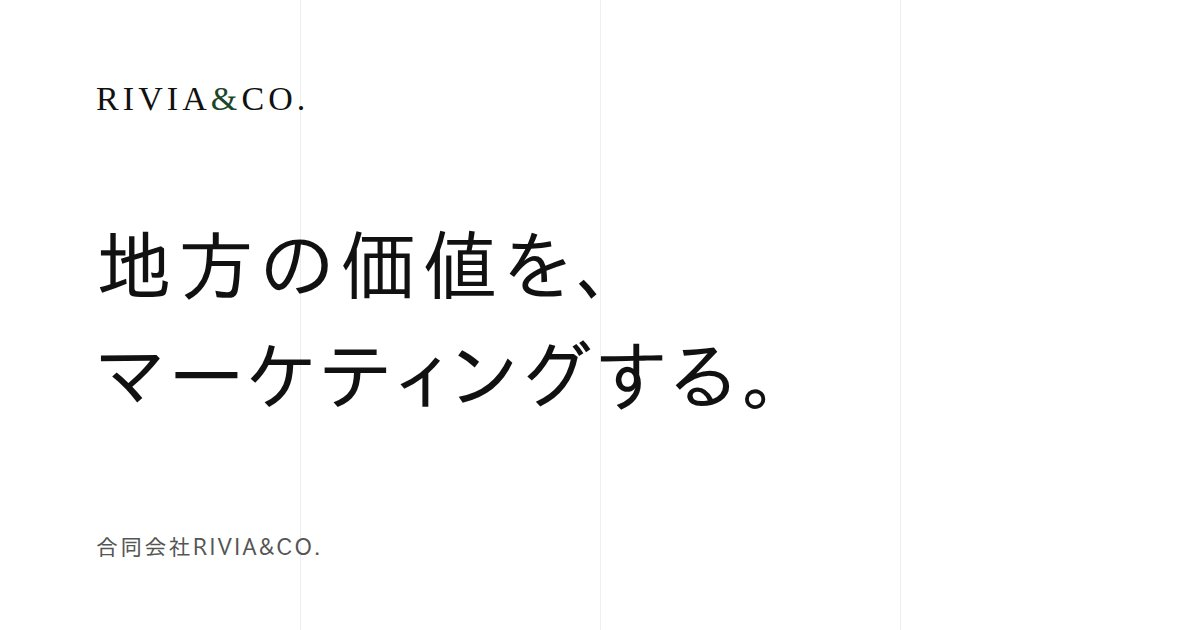
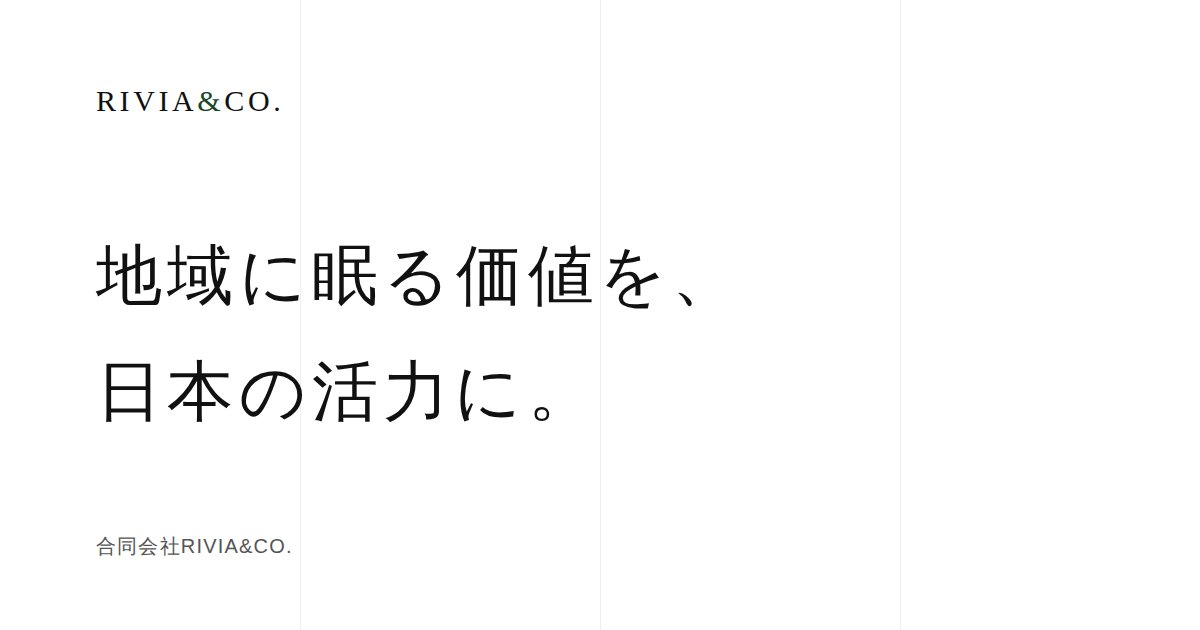
ミッション・ビジョン・バリューを策定：TOPのヒーローとMVVセクション、フッター・タイトル・OGP画像を刷新し、Aboutを写真ヒーロー＋MVVの上質なレイアウトに
Claude-Session: https://claude.ai/code/session_01QhiMqAcoNGYrh5Cz1K4JLP

diff --git a/index.html b/index.html
@@ -12,8 +12,8 @@
   </script>
   <meta charset="UTF-8">
   <meta name="viewport" content="width=device-width, initial-scale=1.0">
-  <title>合同会社RIVIA&amp;CO. | 地方の価値を、マーケティングする。</title>
-  <meta name="description" content="地方の価値を、マーケティングする。宿泊施設の運営から集客・採用、開業支援まで、現場目線でまるごと支援する合同会社RIVIA&amp;CO.のコーポレートサイトです。">
+  <title>合同会社RIVIA&amp;CO. | 地域に眠る価値を、日本の活力に。</title>
+  <meta name="description" content="地域に眠る価値を、日本の活力に。空き家の再生や民泊の開業・運営から、集客・採用、まちづくりまでを担う合同会社RIVIA&amp;CO.のコーポレートサイトです。">
   <link rel="canonical" href="https://example.com/">
   <link rel="icon" href="images/favicon.svg" type="image/svg+xml">
   <link rel="icon" href="images/favicon-48.png" type="image/png" sizes="48x48">
@@ -23,8 +23,8 @@
     OGP（SNSでシェアされたときの表示）
     公開ドメインが決まったら「https://example.com」を実際のURLに変更してください。
   -->
-  <meta property="og:title" content="合同会社RIVIA&amp;CO. | 地方の価値を、マーケティングする。">
-  <meta property="og:description" content="地方の価値を、マーケティングする。宿泊施設の運営から集客・採用、開業支援まで、現場目線でまるごと支援する合同会社RIVIA&amp;CO.のコーポレートサイトです。">
+  <meta property="og:title" content="合同会社RIVIA&amp;CO. | 地域に眠る価値を、日本の活力に。">
+  <meta property="og:description" content="地域に眠る価値を、日本の活力に。空き家の再生や民泊の開業・運営から、集客・採用、まちづくりまでを担う合同会社RIVIA&amp;CO.のコーポレートサイトです。">
   <meta property="og:type" content="website">
   <meta property="og:url" content="https://example.com/">
   <meta property="og:image" content="https://example.com/images/ogp.jpg">
@@ -77,8 +77,8 @@
     <section class="hero hero--photo">
       <img class="hero__bg" src="images/photos/autumn-garden.jpg" alt="" width="1616" height="1079" fetchpriority="high" decoding="async">
       <div class="container">
-        <h1 class="hero__title reveal">地方の<wbr>価値を、<br>マーケティングする。</h1>
-        <p class="hero__sub reveal" data-delay="2">「暮らすように旅をする」<wbr>体験を、<br>宿の運営から<wbr>まちづくりまで、<wbr>現場目線で<wbr>支援します。</p>
+        <h1 class="hero__title reveal">地域に眠る価値を、<br>日本の<wbr>活力に。</h1>
+        <p class="hero__sub reveal" data-delay="2">「暮らすように<wbr>旅する」<wbr>滞在を<wbr>軸に、<br>宿の再生から<wbr>集客・採用、<wbr>まちづくりまで。</p>
         <div class="hero__actions reveal" data-delay="3">
           <a href="contact.html" class="btn">無料で<wbr>相談する <span class="arrow" aria-hidden="true"></span></a>
           <a href="#service" class="btn btn--ghost btn--on-photo">事業紹介を見る</a>
@@ -91,39 +91,44 @@
       <div class="container">
         <div class="vision__head">
           <div class="reveal">
-            <span class="eyebrow">Our Vision</span>
-            <h2 class="vision__copy">日本の<wbr>魅力を、<br>暮らすように<wbr>味わう。</h2>
+            <span class="eyebrow">Mission</span>
+            <h2 class="vision__copy">地域に眠る価値を、<br>日本の<wbr>活力に。</h2>
           </div>
-          <p class="vision__lead reveal" data-delay="1"><n-w class="j">私たちは、単なる宿泊施設を提供するのではありません。</n-w><br><n-w class="j">地域に眠る資源（空き家や遊休不動産）を、デザインとテクノロジーの力で「その土地の日常を体験できる居場所」へとアップデートします。</n-w><br><n-w class="j">旅行者には新しい滞在価値を、地域には持続可能な経済循環を。</n-w></p>
+          <p class="vision__lead reveal" data-delay="1"><n-w class="j">空き家や遊休不動産、食や自然、文化や人の営み。地域には、まだ活かされていない価値が数多く眠っています。</n-w><br><n-w class="j">私たちはその価値を掘り起こし、「まちづくり」と「観光づくり」を通じて、人が訪れ、働き、暮らし続けられる地域を増やしていきます。</n-w><br><n-w class="j">地域が元気になることが、日本が元気になることだと信じて。</n-w></p>
         </div>
-        <p class="vision__label reveal"><n-w>RIVIAが考える「地方の価値をマーケティングする」こと</n-w></p>
-        <ol class="vision__steps">
+        <div class="mvv__block">
+          <p class="mvv__label reveal"><span class="eyebrow">Vision</span><span class="mvv__copy"><n-w>「暮らすように旅する」滞在を、全国のまちへ。</n-w></span><span class="mvv__lead"><n-w>ミッションの実現に向けて、私たちが中期的に取り組むこと。</n-w></span></p>
+          <ol class="vision__steps">
           <li class="vision__step reveal" data-delay="0">
             <span class="vision__num">01</span>
-            <span class="vision__en">Discover</span>
-            <h3 class="vision__title">見つける</h3>
-            <p class="vision__text"><n-w>空き家や遊休不動産、食・自然・文化・人の営みなど、地域に眠る資源を掘り起こします。</n-w></p>
+            <span class="vision__en">Revive</span>
+            <h3 class="vision__title">宿に再生する</h3>
+            <p class="vision__text"><n-w>空き家や遊休不動産を、その土地の日常を味わえる宿へ。再生から開業・運営まで、自ら担います。</n-w></p>
           </li>
           <li class="vision__step reveal" data-delay="1">
             <span class="vision__num">02</span>
-            <span class="vision__en">Refine</span>
-            <h3 class="vision__title">磨く</h3>
-            <p class="vision__text"><n-w>デザインとテクノロジーの力で、「その土地の日常を体験できる宿」や観光コンテンツへと再生・創出します。</n-w></p>
+            <span class="vision__en">Attract</span>
+            <h3 class="vision__title">人を呼び込む</h3>
+            <p class="vision__text"><n-w>WEBマーケティングの力で、地域の魅力を国内外の旅行者に届け、訪れる理由をつくります。</n-w></p>
           </li>
           <li class="vision__step reveal" data-delay="2">
             <span class="vision__num">03</span>
-            <span class="vision__en">Deliver</span>
-            <h3 class="vision__title">届ける</h3>
-            <p class="vision__text"><n-w>WEBマーケティングの力で、その価値を求める国内外の旅行者に確実に届けます。</n-w></p>
+            <span class="vision__en">Employ</span>
+            <h3 class="vision__title">働く人を増やす</h3>
+            <p class="vision__text"><n-w>地域で働きたい人と、人手を必要とする事業者をつなぎ、地域の担い手を増やします。</n-w></p>
           </li>
           <li class="vision__step reveal" data-delay="3">
             <span class="vision__num">04</span>
             <span class="vision__en">Circulate</span>
-            <h3 class="vision__title">循環させる</h3>
-            <p class="vision__text"><n-w>人の流れと雇用を地域に生み、持続可能な経済循環とまちづくりへとつなげます。</n-w></p>
+            <h3 class="vision__title">まちに<wbr>循環させる</h3>
+            <p class="vision__text"><n-w>生まれた収益と雇用を地域に還し、次の再生へ。まちづくりへと広げていきます。</n-w></p>
           </li>
-        </ol>
-        <ul class="vision__outcomes reveal"><li><span><n-w>旅行者には</n-w></span><n-w>その土地の日常に溶け込む、新しい滞在価値を。</n-w></li><li><span><n-w>地域には</n-w></span><n-w>眠っていた資源が稼ぎ、雇用と交流が生まれる経済循環を。</n-w></li><li><span><n-w>オーナー様には</n-w></span><n-w>負担だった資産や施設が、収益を生む事業に変わる未来を。</n-w></li></ul>
+          </ol>
+        </div>
+        <div class="mvv__block">
+          <p class="mvv__label reveal"><span class="eyebrow">Values</span><span class="mvv__copy">私たちが<wbr>大切にすること</span></p>
+          <ul class="values"><li class="reveal"><span class="values__num">01</span><h3>当事者であれ</h3><p><n-w>自ら宿を運営し、現場で確かめたことだけを提案する。</n-w></p></li><li class="reveal"><span class="values__num">02</span><h3>その土地を<wbr>主役に</h3><p><n-w>地域の暮らしと文化への敬意を、すべての判断の起点にする。</n-w></p></li><li class="reveal"><span class="values__num">03</span><h3>想いを、<wbr>成果で示す</h3><p><n-w>想いだけで終わらせず、数字と結果で応える。</n-w></p></li><li class="reveal"><span class="values__num">04</span><h3>続く仕組みを<wbr>つくる</h3><p><n-w>一過性で終わらせず、地域に残り、循環する形を選ぶ。</n-w></p></li></ul>
+        </div>
       </div>
     </section>
 
@@ -440,7 +445,7 @@
       <div class="footer__top">
         <div class="footer__brand">
           <a href="index.html" class="logo"><img src="images/logo/logo.svg" alt="RIVIA&amp;CO." width="325" height="64" loading="lazy"></a>
-          <p class="footer__copy">地方の<wbr>価値を、<wbr>マーケティングする。</p>
+          <p class="footer__copy">地域に眠る価値を、<wbr>日本の<wbr>活力に。</p>
         </div>
         <a href="contact.html" class="footer__cta">無料で<wbr>相談する <span class="arrow" aria-hidden="true"></span></a>
       </div>

diff --git a/about.html b/about.html
@@ -73,26 +73,66 @@
   </header>
 
   <main>
-    <section class="page-hero">
+    <section class="page-hero page-hero--photo page-hero--about">
+      <img class="page-hero__bg" src="images/photos/irori-room.jpg" alt="" width="1623" height="1079" style="object-position:50% 60%" fetchpriority="high" decoding="async">
       <div class="container">
         <p class="page-hero__en reveal">About Us</p>
         <h1 class="page-hero__ja reveal" data-delay="1">私たちに<wbr>ついて</h1>
       </div>
     </section>
 
-    <section class="section">
+    <section class="section about-sec">
+      <div class="container container--narrow">
+        <p class="about-big reveal" aria-hidden="true">Mission</p>
+        <h2 class="about-copy reveal">地域に眠る価値を、<br>日本の<wbr>活力に。</h2>
+        <div class="about-prose">
+          <div class="about-para reveal"><p class="about-line">空き家や遊休不動産、</p><p class="about-line">食や自然、<wbr>文化や人の営み。</p><p class="about-line">地域には、<wbr>まだ活かされていない</p><p class="about-line">価値が<wbr>数多く<wbr>眠っています。</p></div>
+          <div class="about-para reveal"><p class="about-line">その土地に<wbr>とって、</p><p class="about-line">そこに<wbr>暮らす<wbr>人々に<wbr>とって、</p><p class="about-line">本当に<wbr>必要な<wbr>ものは<wbr>何か。</p><p class="about-line">私たちは自ら現場に<wbr>立ち、</p><p class="about-line">地域と<wbr>徹底的に<wbr>向き合います。</p></div>
+          <div class="about-para reveal"><p class="about-line">眠っていた<wbr>価値を掘り起こし、</p><p class="about-line">まちづくりと<wbr>観光づくりへ。</p><p class="about-line">人が訪れ、<wbr>働き、</p><p class="about-line">暮らし続けられる<wbr>地域を、</p><p class="about-line">ひとつずつ増やしていく。</p></div>
+          <div class="about-para reveal"><p class="about-line">地域が<wbr>元気に<wbr>なることが、</p><p class="about-line">日本が<wbr>元気になること。</p><p class="about-line">私たちは、<wbr>そう信じています。</p></div>
+        </div>
+      </div>
+    </section>
+
+    <section class="section section--soft about-sec">
+      <div class="container">
+        <p class="about-big reveal" aria-hidden="true">Vision</p>
+        <h2 class="about-copy reveal">「暮らすように<wbr>旅する」<wbr>滞在を、<br>全国の<wbr>まちへ。</h2>
+        <p class="about-note reveal"><n-w>ミッションの実現に向けて、私たちが中期的に取り組むこと。</n-w></p>
+        <ol class="about-pillars">
+          <li class="reveal" data-delay="0"><span class="about-pillar__num">01</span><span class="about-pillar__en">Revive</span><h3>宿に再生する</h3><p><n-w>空き家や遊休不動産を、その土地の日常を味わえる宿へ。再生から開業・運営まで、自ら担います。</n-w></p></li>
+          <li class="reveal" data-delay="1"><span class="about-pillar__num">02</span><span class="about-pillar__en">Attract</span><h3>人を呼び込む</h3><p><n-w>WEBマーケティングの力で、地域の魅力を国内外の旅行者に届け、訪れる理由をつくります。</n-w></p></li>
+          <li class="reveal" data-delay="2"><span class="about-pillar__num">03</span><span class="about-pillar__en">Employ</span><h3>働く人を増やす</h3><p><n-w>地域で働きたい人と、人手を必要とする事業者をつなぎ、地域の担い手を増やします。</n-w></p></li>
+          <li class="reveal" data-delay="3"><span class="about-pillar__num">04</span><span class="about-pillar__en">Circulate</span><h3>まちに<wbr>循環させる</h3><p><n-w>生まれた収益と雇用を地域に還し、次の再生へ。まちづくりへと広げていきます。</n-w></p></li>
+        </ol>
+      </div>
+    </section>
+
+    <section class="section about-sec">
+      <div class="container">
+        <p class="about-big reveal" aria-hidden="true">Values</p>
+        <h2 class="about-copy reveal">私たちが<wbr>大切にすること</h2>
+        <ul class="about-values">
+          <li class="reveal" data-delay="0"><span class="about-value__num">01</span><div><h3>当事者であれ</h3><p><n-w>自ら宿を運営し、現場で確かめたことだけを提案する。</n-w></p></div></li>
+          <li class="reveal" data-delay="1"><span class="about-value__num">02</span><div><h3>その土地を<wbr>主役に</h3><p><n-w>地域の暮らしと文化への敬意を、すべての判断の起点にする。</n-w></p></div></li>
+          <li class="reveal" data-delay="0"><span class="about-value__num">03</span><div><h3>想いを、<wbr>成果で示す</h3><p><n-w>想いだけで終わらせず、数字と結果で応える。</n-w></p></div></li>
+          <li class="reveal" data-delay="1"><span class="about-value__num">04</span><div><h3>続く仕組みを<wbr>つくる</h3><p><n-w>一過性で終わらせず、地域に残り、循環する形を選ぶ。</n-w></p></div></li>
+        </ul>
+      </div>
+    </section>
+
+    <section class="section section--soft">
       <div class="container container--narrow">
         <div class="section-head reveal">
           <span class="eyebrow">Message</span>
-          <h2 class="section-title">メッセージ</h2>
+          <h2 class="section-title">創業の想い</h2>
         </div>
         <div class="message reveal">
           <p class="message__lead"><span class="message__quote"><n-w class="j">「日本の観光産業が持つポテンシャルは、</n-w><br class="pc-only"><n-w class="j">まだまだこんなものではない」</n-w></span><span class="message__origin"><n-w class="j">——それが、私たちがRIVIA&amp;CO.を立ち上げた原点です。</n-w></span></p>
           <p><n-w class="j">近年、日本全国で深刻化する「空き家問題」。</n-w><br class="pc-only"><n-w class="j">私たちはこの社会課題を、マイナスなものとしてではなく、新たな価値を創出するための豊かな資源だと捉えています。</n-w></p>
-          <p><n-w class="j">私たちが目指すのは、単なる宿泊施設の提供ではありません。</n-w><br class="pc-only"><n-w class="j">ワーケーションを主軸とする国内外のトラベラーが、その土地ならではの豊かな食や手つかずの自然、息づく風土を五感で味わいながら、のびのびと過ごせる空間を創り出すことです。</n-w></p>
           <p><n-w class="j">旅の本来の目的とは、有名な観光名所を慌ただしく巡ることだけではなく、その土地の日常に溶け込み、新しい自分の居場所を見つけることにあると私たちは信じています。</n-w></p>
           <p class="message__concept">「暮らすように<wbr>旅する」</p>
-          <p><n-w class="j">このコンセプトを体現する宿を全国津々浦々に展開し、地域の息吹を感じられる新しい滞在体験をデザインしていく。</n-w><br class="pc-only"><n-w class="j">そして、宿泊施設の運営・支援・マーケティングという3つの軸を通じて、日本の観光産業を次なるステージへと引き上げてまいります。</n-w></p>
+          <p><n-w class="j">このコンセプトを体現する宿を全国に広げ、地域の息吹を感じられる新しい滞在体験をデザインしていく。</n-w><br class="pc-only"><n-w class="j">宿の再生から集客・採用、まちづくりまでを通じて、地域と日本の未来をつくってまいります。</n-w></p>
         </div>
       </div>
     </section>
@@ -198,7 +238,7 @@
       <div class="footer__top">
         <div class="footer__brand">
           <a href="index.html" class="logo"><img src="images/logo/logo.svg" alt="RIVIA&amp;CO." width="325" height="64" loading="lazy"></a>
-          <p class="footer__copy">地方の<wbr>価値を、<wbr>マーケティングする。</p>
+          <p class="footer__copy">地域に眠る価値を、<wbr>日本の<wbr>活力に。</p>
         </div>
         <a href="contact.html" class="footer__cta">無料で<wbr>相談する <span class="arrow" aria-hidden="true"></span></a>
       </div>

diff --git a/css/style.css b/css/style.css
@@ -1500,3 +1500,62 @@ strong.hl { font-weight: 600; color: var(--c-text); background: linear-gradient(
 .subnav__aud:first-child { border-top: 0; padding-top: 8px; }
 .subnav__intents li:has(+ .subnav__aud) a { border-bottom: 0; }
 @media (max-width: 899px) { .subnav__aud { padding: 14px var(--gutter) 4px; } }
+/* Mission / Vision / Values */
+.mvv__block { margin-top: 96px; }
+.mvv__label { display: flex; flex-wrap: wrap; align-items: baseline; gap: 8px 24px; padding-bottom: 20px; border-bottom: 1px solid var(--c-text); }
+.mvv__label .eyebrow { margin: 0; }
+.mvv__copy { font-family: var(--font-serif); font-size: clamp(20px, 2.2vw, 26px); letter-spacing: 0.08em; }
+.mvv__lead { flex-basis: 100%; font-size: 13px; color: var(--c-muted); letter-spacing: 0.06em; }
+.values { display: grid; grid-template-columns: repeat(4, minmax(0, 1fr)); gap: 16px; margin-top: 28px; }
+.values li { padding: 28px 24px; background: var(--c-bg-soft); }
+.values__num { font-family: var(--font-en); font-size: 13px; color: var(--c-accent); letter-spacing: 0.2em; }
+.values h3 { margin-top: 10px; font-family: var(--font-serif); font-weight: 400; font-size: 19px; letter-spacing: 0.06em; }
+.values p { margin-top: 10px; font-size: 13.5px; line-height: 1.9; color: var(--c-sub); }
+@media (max-width: 1099px) { .values { grid-template-columns: repeat(2, minmax(0, 1fr)); } }
+@media (max-width: 899px) {
+  .mvv__block { margin-top: 64px; }
+  .values { grid-template-columns: 1fr; gap: 12px; margin-top: 20px; }
+  .values li { padding: 20px; }
+}
+/* About：ミッション・ビジョン・バリューを、大きな余白と細い線で上質に見せる */
+.page-hero--about { min-height: min(72vh, 680px); }
+.page-hero--about::before { background: linear-gradient(0deg, rgba(12, 14, 12, 0.62) 0%, rgba(12, 14, 12, 0.38) 60%, rgba(12, 14, 12, 0.3) 100%); }
+.page-hero--about .page-hero__en { color: #fff; font-size: clamp(56px, 9vw, 120px); }
+.page-hero--about .page-hero__ja { color: rgba(255, 255, 255, 0.85); letter-spacing: 0.3em; }
+.about-sec { text-align: center; padding-top: 140px; padding-bottom: 140px; }
+.about-big { font-family: var(--font-en); font-weight: 300; font-size: clamp(64px, 12vw, 168px); line-height: 1; letter-spacing: 0.1em; text-transform: uppercase; color: rgba(26, 71, 42, 0.1); }
+.about-copy { margin-top: -0.2em; font-family: var(--font-serif); font-weight: 300; font-size: clamp(24px, 3.2vw, 38px); line-height: 1.8; letter-spacing: 0.12em; }
+.about-copy::after { content: ""; display: block; width: 40px; height: 1px; margin: 40px auto 0; background: var(--c-accent); }
+.about-prose { margin-top: 48px; display: grid; gap: 36px; }
+.about-line { font-family: var(--font-serif); font-weight: 300; font-size: 16px; line-height: 2.3; letter-spacing: 0.1em; color: var(--c-sub); }
+.about-note { margin-top: 32px; font-size: 13.5px; color: var(--c-muted); letter-spacing: 0.1em; }
+.about-pillars { display: grid; grid-template-columns: repeat(4, minmax(0, 1fr)); margin-top: 64px; border-top: 1px solid var(--c-line-strong); text-align: left; }
+.about-pillars li { padding: 40px 28px 8px; }
+.about-pillars li + li { border-left: 1px solid var(--c-line); }
+.about-pillar__num { display: block; font-family: var(--font-en); font-weight: 300; font-size: 44px; line-height: 1; color: var(--c-accent); }
+.about-pillar__en { display: block; margin-top: 12px; font-family: var(--font-en); font-size: 12px; letter-spacing: 0.24em; text-transform: uppercase; color: var(--c-muted); }
+.about-pillars h3 { margin-top: 20px; font-family: var(--font-serif); font-weight: 400; font-size: 20px; letter-spacing: 0.1em; }
+.about-pillars p { margin-top: 14px; font-size: 13.5px; line-height: 2; color: var(--c-sub); }
+.about-values { display: grid; grid-template-columns: repeat(2, minmax(0, 1fr)); gap: 0 64px; margin-top: 64px; text-align: left; }
+.about-values li { display: grid; grid-template-columns: 72px minmax(0, 1fr); gap: 20px; align-items: baseline; padding: 36px 0; border-top: 1px solid var(--c-line-strong); }
+.about-value__num { font-family: var(--font-en); font-weight: 300; font-size: 52px; line-height: 1; color: var(--c-accent); }
+.about-values h3 { font-family: var(--font-serif); font-weight: 400; font-size: 22px; letter-spacing: 0.1em; }
+.about-values p { margin-top: 10px; font-size: 14px; line-height: 2; color: var(--c-sub); }
+@media (max-width: 1099px) {
+  .about-pillars { grid-template-columns: repeat(2, minmax(0, 1fr)); }
+  .about-pillars li:nth-child(3) { border-left: 0; }
+  .about-pillars li:nth-child(n+3) { border-top: 1px solid var(--c-line); }
+}
+@media (max-width: 899px) {
+  .about-sec { padding-top: 88px; padding-bottom: 88px; }
+  .about-copy::after { margin-top: 28px; }
+  .about-prose { margin-top: 32px; gap: 28px; }
+  .about-line { font-size: 14.5px; line-height: 2.1; letter-spacing: 0.06em; }
+  .about-pillars { grid-template-columns: 1fr; margin-top: 40px; }
+  .about-pillars li, .about-pillars li + li { padding: 28px 4px 24px; border-left: 0; border-top: 1px solid var(--c-line); }
+  .about-pillars li:first-child { border-top: 0; }
+  .about-values { grid-template-columns: 1fr; margin-top: 40px; }
+  .about-values li { grid-template-columns: 52px minmax(0, 1fr); gap: 12px; padding: 26px 0; }
+  .about-value__num { font-size: 38px; }
+  .about-values h3 { font-size: 18px; }
+}

diff --git a/media/airdna-revenue-simulation.html b/media/airdna-revenue-simulation.html
@@ -314,7 +314,7 @@
       <div class="footer__top">
         <div class="footer__brand">
           <a href="../index.html" class="logo"><img src="../images/logo/logo.svg" alt="RIVIA&amp;CO." width="325" height="64" loading="lazy"></a>
-          <p class="footer__copy">地方の<wbr>価値を、<wbr>マーケティングする。</p>
+          <p class="footer__copy">地域に眠る価値を、<wbr>日本の<wbr>活力に。</p>
         </div>
         <a href="../contact.html" class="footer__cta">無料で<wbr>相談する <span class="arrow" aria-hidden="true"></span></a>
       </div>

diff --git a/media/akiya-inherited-house-to-inn.html b/media/akiya-inherited-house-to-inn.html
@@ -308,7 +308,7 @@
       <div class="footer__top">
         <div class="footer__brand">
           <a href="../index.html" class="logo"><img src="../images/logo/logo.svg" alt="RIVIA&amp;CO." width="325" height="64" loading="lazy"></a>
-          <p class="footer__copy">地方の<wbr>価値を、<wbr>マーケティングする。</p>
+          <p class="footer__copy">地域に眠る価値を、<wbr>日本の<wbr>活力に。</p>
         </div>
         <a href="../contact.html" class="footer__cta">無料で<wbr>相談する <span class="arrow" aria-hidden="true"></span></a>
       </div>

diff --git a/media/akiya-regional-revitalization.html b/media/akiya-regional-revitalization.html
@@ -279,7 +279,7 @@
       <div class="footer__top">
         <div class="footer__brand">
           <a href="../index.html" class="logo"><img src="../images/logo/logo.svg" alt="RIVIA&amp;CO." width="325" height="64" loading="lazy"></a>
-          <p class="footer__copy">地方の<wbr>価値を、<wbr>マーケティングする。</p>
+          <p class="footer__copy">地域に眠る価値を、<wbr>日本の<wbr>活力に。</p>
         </div>
         <a href="../contact.html" class="footer__cta">無料で<wbr>相談する <span class="arrow" aria-hidden="true"></span></a>
       </div>

diff --git a/media/japan-tourism-market-data.html b/media/japan-tourism-market-data.html
@@ -296,7 +296,7 @@
       <div class="footer__top">
         <div class="footer__brand">
           <a href="../index.html" class="logo"><img src="../images/logo/logo.svg" alt="RIVIA&amp;CO." width="325" height="64" loading="lazy"></a>
-          <p class="footer__copy">地方の<wbr>価値を、<wbr>マーケティングする。</p>
+          <p class="footer__copy">地域に眠る価値を、<wbr>日本の<wbr>活力に。</p>
         </div>
         <a href="../contact.html" class="footer__cta">無料で<wbr>相談する <span class="arrow" aria-hidden="true"></span></a>
       </div>

diff --git a/media/minpaku-vs-ryokan-law.html b/media/minpaku-vs-ryokan-law.html
@@ -297,7 +297,7 @@
       <div class="footer__top">
         <div class="footer__brand">
           <a href="../index.html" class="logo"><img src="../images/logo/logo.svg" alt="RIVIA&amp;CO." width="325" height="64" loading="lazy"></a>
-          <p class="footer__copy">地方の<wbr>価値を、<wbr>マーケティングする。</p>
+          <p class="footer__copy">地域に眠る価値を、<wbr>日本の<wbr>活力に。</p>
         </div>
         <a href="../contact.html" class="footer__cta">無料で<wbr>相談する <span class="arrow" aria-hidden="true"></span></a>
       </div>

diff --git a/media/new-build-vs-used-house-inn.html b/media/new-build-vs-used-house-inn.html
@@ -295,7 +295,7 @@
       <div class="footer__top">
         <div class="footer__brand">
           <a href="../index.html" class="logo"><img src="../images/logo/logo.svg" alt="RIVIA&amp;CO." width="325" height="64" loading="lazy"></a>
-          <p class="footer__copy">地方の<wbr>価値を、<wbr>マーケティングする。</p>
+          <p class="footer__copy">地域に眠る価値を、<wbr>日本の<wbr>活力に。</p>
         </div>
         <a href="../contact.html" class="footer__cta">無料で<wbr>相談する <span class="arrow" aria-hidden="true"></span></a>
       </div>

diff --git a/media/shizuoka-yaizu-akiya-inn.html b/media/shizuoka-yaizu-akiya-inn.html
@@ -275,7 +275,7 @@
       <div class="footer__top">
         <div class="footer__brand">
           <a href="../index.html" class="logo"><img src="../images/logo/logo.svg" alt="RIVIA&amp;CO." width="325" height="64" loading="lazy"></a>
-          <p class="footer__copy">地方の<wbr>価値を、<wbr>マーケティングする。</p>
+          <p class="footer__copy">地域に眠る価値を、<wbr>日本の<wbr>活力に。</p>
         </div>
         <a href="../contact.html" class="footer__cta">無料で<wbr>相談する <span class="arrow" aria-hidden="true"></span></a>
       </div>

diff --git a/media/small-inn-subsidies.html b/media/small-inn-subsidies.html
@@ -294,7 +294,7 @@
       <div class="footer__top">
         <div class="footer__brand">
           <a href="../index.html" class="logo"><img src="../images/logo/logo.svg" alt="RIVIA&amp;CO." width="325" height="64" loading="lazy"></a>
-          <p class="footer__copy">地方の<wbr>価値を、<wbr>マーケティングする。</p>
+          <p class="footer__copy">地域に眠る価値を、<wbr>日本の<wbr>活力に。</p>
         </div>
         <a href="../contact.html" class="footer__cta">無料で<wbr>相談する <span class="arrow" aria-hidden="true"></span></a>
       </div>

diff --git a/careers.html b/careers.html
@@ -141,7 +141,7 @@
       <div class="footer__top">
         <div class="footer__brand">
           <a href="index.html" class="logo"><img src="images/logo/logo.svg" alt="RIVIA&amp;CO." width="325" height="64" loading="lazy"></a>
-          <p class="footer__copy">地方の<wbr>価値を、<wbr>マーケティングする。</p>
+          <p class="footer__copy">地域に眠る価値を、<wbr>日本の<wbr>活力に。</p>
         </div>
         <a href="contact.html" class="footer__cta">無料で<wbr>相談する <span class="arrow" aria-hidden="true"></span></a>
       </div>
